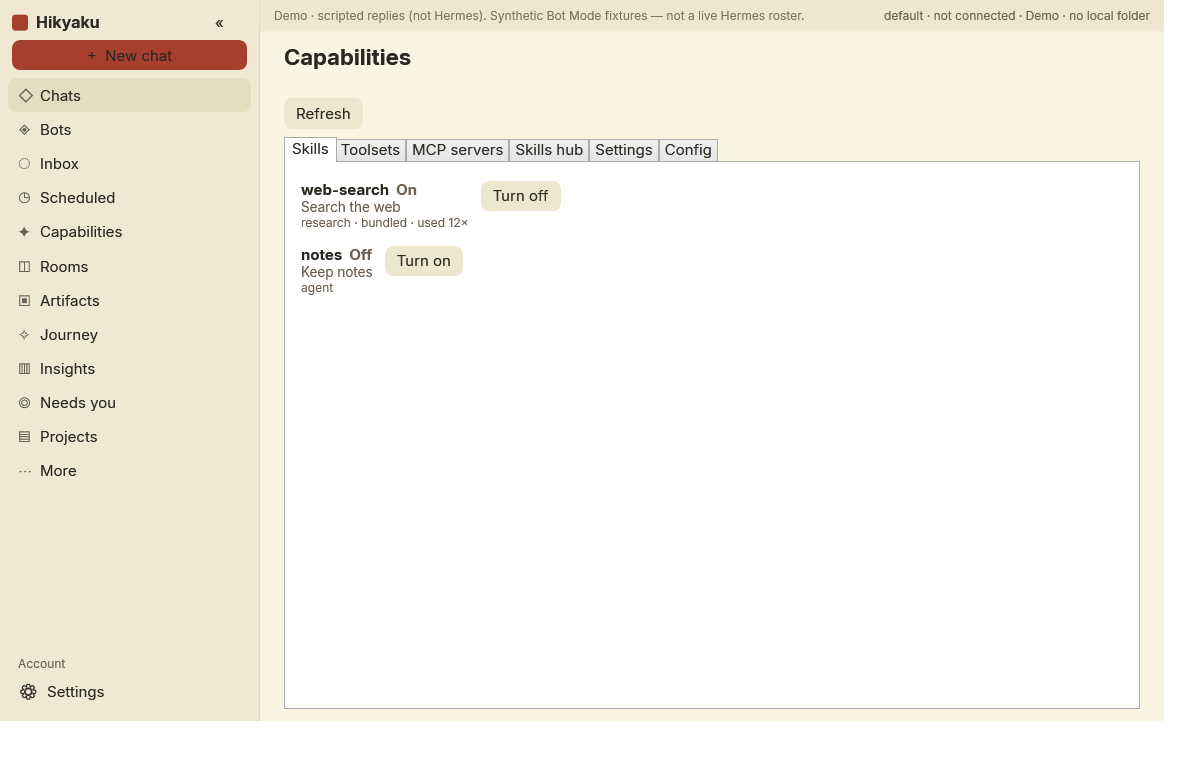
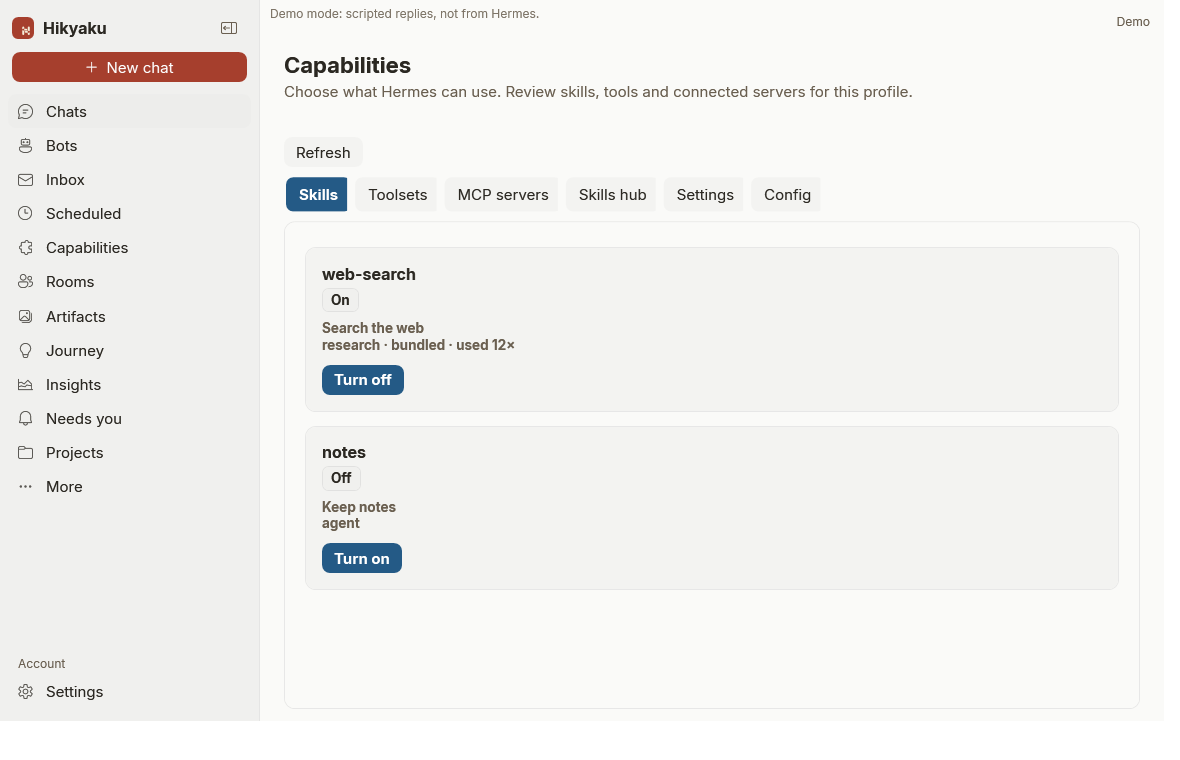
docs: add screenshot gallery for themes and experience modes

diff --git a/docs/SCREENSHOTS.md b/docs/SCREENSHOTS.md
@@ -1,0 +1,139 @@
+# Screenshot gallery
+
+A look at Hikyaku **v0.7.7**, captured from the Windows WPF app on 3 November 2026.
+Every screen uses synthetic demo content. These are app captures, not mockups, and do not show private chats,
+credentials, or a live gateway. Click any image to open it at full size.
+
+[Simple and Advanced](#simple-and-advanced) · [App screens](#app-screens) · [All themes](#all-themes) · [Back to README](../README.md)
+
+## Simple and Advanced
+
+Switch in **Settings → View**. A new installation starts in Simple. Both views offer the same themes;
+Advanced adds gateway management and technical controls. The screenshots below show the same example conversation.
+
+| Simple · Washi & Ink Light | Advanced · Washi & Ink Light |
+|---|---|
+| [![Simple mode: compact navigation and an everyday chat](images/simple-view.png)](images/simple-view.png) | [![Advanced mode: the same chat with gateway pages and model controls](images/advanced-view.png)](images/advanced-view.png) |
+
+Simple is a view, not an access-control boundary. See [Simple and Advanced in the README](../README.md#simple-and-advanced) for details.
+
+## App screens
+
+Inbox is available in both views; the capture here uses Advanced navigation. The gateway administration and
+project screens below are Advanced features. Appearance settings are available in both views.
+
+| Inbox | Scheduled jobs · Advanced |
+|---|---|
+| Search, counted filters, and an opened scheduled result. | Job schedules, paused runs, and delivery status. |
+| [![Inbox with All, Unread, Failed and Script filters and a sample morning summary](images/inbox.png)](images/inbox.png) | [![Scheduled jobs with morning summary, backup check and weekly digest cards](images/scheduled-jobs.png)](images/scheduled-jobs.png) |
+
+| Capabilities · Advanced | Skills hub · Advanced |
+|---|---|
+| Skills, toolsets, MCP servers, settings, and config. | Browse skills and see which are installed. |
+| [![Capabilities with enabled web search and disabled notes skills](images/capabilities-advanced.png)](images/capabilities-advanced.png) | [![Skills hub with sample release, PDF and meeting-note skills](images/skills-hub.png)](images/skills-hub.png) |
+
+| Projects · Advanced | Appearance · both views |
+|---|---|
+| Start with a folder on this PC, then browse files and save checkpoints. | Light, Dark, System, and paired theme previews. |
+| [![Projects page before choosing a local folder](images/projects.png)](images/projects.png) | [![Appearance settings with light and dark controls above the theme gallery](images/appearance.png)](images/appearance.png) |
+
+| Rooms · Advanced | Artifacts · Advanced |
+|---|---|
+| Hosted rooms, participants, and room conversations. | Browse and preview files from agent replies. |
+| [![Rooms page with synthetic participants and messages](images/rooms.png)](images/rooms.png) | [![Artifacts page listing synthetic files and preview actions](images/artifacts.png)](images/artifacts.png) |
+
+### Journey · Advanced
+
+A timeline of the skills and memories the profile has picked up.
+
+[![Journey timeline with synthetic skills and a memory](images/journey.png)](images/journey.png)
+
+## All themes
+
+Eleven themes, each with light and dark variants. **System** follows the Windows appearance setting.
+The same example chat and Advanced layout are used throughout so you can compare the accents and surfaces.
+Choose a theme in **Settings → Appearance**; it applies to Simple too.
+
+### Washi & Ink
+
+| Light | Dark |
+|---|---|
+| [![Washi & Ink Light](images/themes/washi-ink-light.png)](images/themes/washi-ink-light.png) | [![Washi & Ink Dark](images/themes/washi-ink-dark.png)](images/themes/washi-ink-dark.png) |
+
+### Great Wave
+
+| Light | Dark |
+|---|---|
+| [![Great Wave Light](images/themes/great-wave-light.png)](images/themes/great-wave-light.png) | [![Great Wave Dark](images/themes/great-wave-dark.png)](images/themes/great-wave-dark.png) |
+
+### Red Fuji
+
+| Light | Dark |
+|---|---|
+| [![Red Fuji Light](images/themes/red-fuji-light.png)](images/themes/red-fuji-light.png) | [![Red Fuji Dark](images/themes/red-fuji-dark.png)](images/themes/red-fuji-dark.png) |
+
+### Pine & Mist
+
+| Light | Dark |
+|---|---|
+| [![Pine & Mist Light](images/themes/pine-mist-light.png)](images/themes/pine-mist-light.png) | [![Pine & Mist Dark](images/themes/pine-mist-dark.png)](images/themes/pine-mist-dark.png) |
+
+### Chrysanthemums
+
+| Light | Dark |
+|---|---|
+| [![Chrysanthemums Light](images/themes/chrysanthemum-light.png)](images/themes/chrysanthemum-light.png) | [![Chrysanthemums Dark](images/themes/chrysanthemum-dark.png)](images/themes/chrysanthemum-dark.png) |
+
+### Peonies
+
+| Light | Dark |
+|---|---|
+| [![Peonies Light](images/themes/peony-light.png)](images/themes/peony-light.png) | [![Peonies Dark](images/themes/peony-dark.png)](images/themes/peony-dark.png) |
+
+### Kirifuri Falls
+
+| Light | Dark |
+|---|---|
+| [![Kirifuri Falls Light](images/themes/kirifuri-light.png)](images/themes/kirifuri-light.png) | [![Kirifuri Falls Dark](images/themes/kirifuri-dark.png)](images/themes/kirifuri-dark.png) |
+
+### Thunderstorm
+
+| Light | Dark |
+|---|---|
+| [![Thunderstorm Light](images/themes/thunderstorm-light.png)](images/themes/thunderstorm-light.png) | [![Thunderstorm Dark](images/themes/thunderstorm-dark.png)](images/themes/thunderstorm-dark.png) |
+
+### Irises
+
+| Light | Dark |
+|---|---|
+| [![Irises Light](images/themes/irises-light.png)](images/themes/irises-light.png) | [![Irises Dark](images/themes/irises-dark.png)](images/themes/irises-dark.png) |
+
+### Shibuya Night
+
+| Light | Dark |
+|---|---|
+| [![Shibuya Night Light](images/themes/shibuya-night-light.png)](images/themes/shibuya-night-light.png) | [![Shibuya Night Dark](images/themes/shibuya-night-dark.png)](images/themes/shibuya-night-dark.png) |
+
+### Akihabara
+
+| Light | Dark |
+|---|---|
+| [![Akihabara Light](images/themes/akihabara-light.png)](images/themes/akihabara-light.png) | [![Akihabara Dark](images/themes/akihabara-dark.png)](images/themes/akihabara-dark.png) |
+
+## Capture notes
+
+These images were rendered by the app at desktop size using its demo transport and synthetic fixtures.
+Chat and theme captures use an example Kyoto conversation; other pages use the built-in UI acceptance fixtures.
+The local capture data and temporary harness stay under ignored `artifacts/`.
+
+To inspect the built-in screen captures on Windows, first publish the current source, then run:
+
+```powershell
+dotnet publish src/Hikyaku.App -c Release -r win-x64 --self-contained false -o artifacts/Hikyaku -nologo
+./scripts/ui-acceptance.ps1 -OutDir artifacts/screenshots
+```
+
+The script saves PNGs and `REPORT.md` under `artifacts/screenshots/ui-acceptance`. Review images before publishing:
+layout-test chats are intentionally repetitive, theme captures may include test drawers, and temporary project paths
+can contain a Windows account name. Use a fresh isolated demo chat for a public theme comparison. Never publish
+personal settings, live gateway data, or the entire capture output folder.

diff --git a/README.md b/README.md
@@ -6,7 +6,10 @@ dashboard over the network; it does not run an agent itself.
 
 It is an independent, community-built client. It is not made by or affiliated with Nous Research.
 
-![A chat in Hikyaku](docs/images/chat.png)
+![A chat in Hikyaku, Advanced view with Washi & Ink Light](docs/images/chat.png)
+
+See the [screenshot gallery](docs/SCREENSHOTS.md) for more screens and all eleven themes in light and dark.
+All screenshots use synthetic demo content; no private chats or live gateway data are shown.
 
 ## Status
 
@@ -46,7 +49,25 @@ Simple too, with a button to turn it off: YOLO turned on in a chat from this app
 terminal, or approvals turned off for the profile. (YOLO turned on from another client, or before Hikyaku was restarted,
 is not read back from the gateway yet.)
 
-![Simple view](docs/images/simple-view.png)
+| Simple: everyday chatting | Advanced: gateway tools |
+|---|---|
+| ![Simple view with a demo chat and a compact navigation sidebar](docs/images/simple-view.png) | ![Advanced view with the same demo chat and gateway navigation](docs/images/advanced-view.png) |
+
+Both screenshots show the same chat in Washi & Ink Light. [Open the full-size mode comparison](docs/SCREENSHOTS.md#simple-and-advanced).
+
+## A few of the themes
+
+Choose **Light**, **Dark**, or **System** in Settings → Appearance. All eleven themes are available in both views.
+
+| Great Wave · Light | Washi & Ink · Dark |
+|---|---|
+| ![Great Wave Light: blue and rust accents on off-white surfaces](docs/images/themes/great-wave-light.png) | ![Washi and Ink Dark: warm coral and blue accents on black surfaces](docs/images/themes/washi-ink-dark.png) |
+
+| Shibuya Night · Dark | Akihabara · Light |
+|---|---|
+| ![Shibuya Night Dark: magenta and cyan accents](docs/images/themes/shibuya-night-dark.png) | ![Akihabara Light: green and violet accents](docs/images/themes/akihabara-light.png) |
+
+[Browse all 22 theme variants and more app screens →](docs/SCREENSHOTS.md)
 
 ## Requirements
 
@@ -132,8 +153,6 @@ dotnet test tests/Hikyaku.App.Tests      # view models and WPF behaviour against
 ./scripts/ui-acceptance.ps1              # drives the real window in demo mode and saves screenshots
 ./scripts/check-secrets.ps1              # heuristic scan for secrets and personal data in tracked files
 ```
-
-![Capabilities in Advanced view](docs/images/capabilities-advanced.png)
 
 ## Reporting problems
 

diff --git a/CHANGELOG.md b/CHANGELOG.md
@@ -5,6 +5,8 @@ are `vMAJOR.MINOR.PATCH`.
 
 ## Unreleased
 
+- Refreshed the README screenshots and added a gallery of Simple and Advanced views, app screens, and all eleven themes in light and dark, using synthetic demo content.
+
 ## 0.7.7 — Organized Inbox and clearer navigation
 
 - Inbox adds counted All, Unread, Failed and Script filters, available-result search, custom folders (including empty folders), and visible move actions. Local filtering preserves opened results; overlapping folder changes are serialized.
